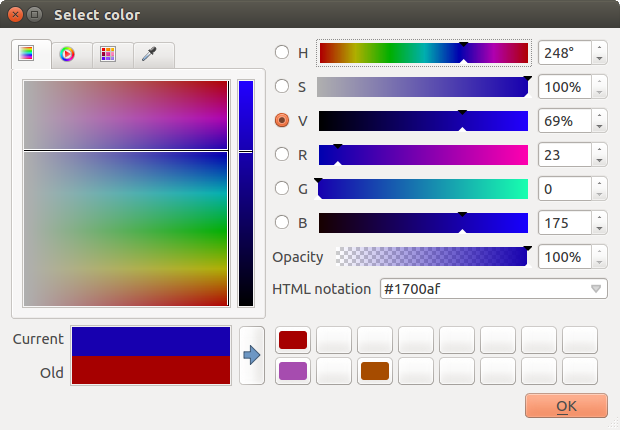
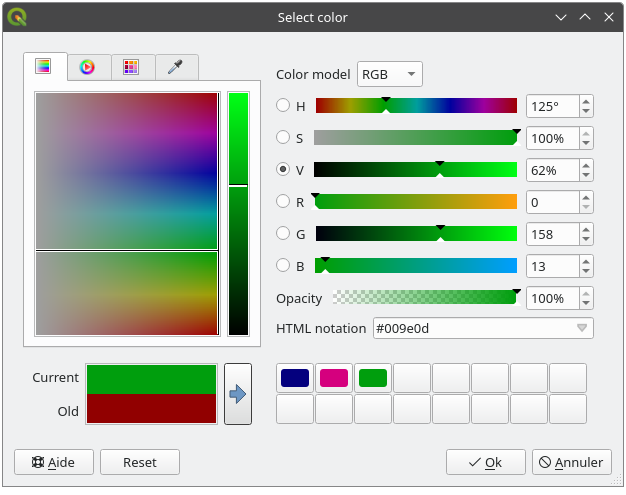
Indicate colors model option and update screenschots accordingly

diff --git a/docs/user_manual/introduction/qgis_configuration.rst b/docs/user_manual/introduction/qgis_configuration.rst
@@ -1872,10 +1872,8 @@ In the :guilabel:`Symbol options` group, you can:
   fill colors, hence avoiding same rendering for all layers.
 
 .. _style_database:
-.. _project_colors:
 
 Style Database
-Project Colors
 ..............
 
 A style database in QGIS is a structured repository designed to store symbols,
@@ -1898,6 +1896,26 @@ In the :guilabel:`Style Database` section you can choose to
 style database or you can |newPage| :guilabel:`Create new style database`.
 When you add or remove a style database in this section, the changes will
 be automatically reflected in the |symbology| :guilabel:`Symbology Properties`.
+
+
+.. _project_colors:
+
+Colors properties
+-----------------
+
+.. _figure_project_colors:
+
+.. figure:: img/project_colors.png
+   :align: center
+
+   Colors tab
+
+In the |colorSwatches| :guilabel:`Colors` tab, you can select the  :guilabel:`Color model`,
+i.e. whether selecting a color should by default be defined as ``RGB`` or ``CMYK``.
+Any color defined in a different color model than the one specified here
+will be converted to this color model when exporting a layout.
+
+
 There is also an additional section where you can define specific colors for the
 running project. Like the :ref:`global colors <colors_options>`, you can:
 
@@ -2689,6 +2707,8 @@ in the QGIS user profile.
 .. |checkbox| image:: /static/common/checkbox.png
    :width: 1.3em
 .. |codeEditor| image:: /static/common/mIconCodeEditor.png
+   :width: 1.5em
+.. |colorSwatches| image:: /static/common/mIconColorSwatches.png
    :width: 1.5em
 .. |crs| image:: /static/common/CRS.png
    :width: 1.5em

diff --git a/docs/user_manual/introduction/general_tools.rst b/docs/user_manual/introduction/general_tools.rst
@@ -1710,9 +1710,13 @@ from another application: press the space bar while the tab is active, move the
 mouse over the desired color and click on it or press the space bar again. You
 can also click the :guilabel:`Sample Color` button to activate the picker.
 
-Whatever method you use, the selected color is always described through color
-sliders for ``HSV`` (Hue, Saturation, Value) and ``RGB`` (Red, Green, Blue)
-values. The color is also identifiable in :guilabel:`HTML notation`.
+Whatever method you use, the selected color is always described
+through options of a :guilabel:`Color model`
+that defaults to the :ref:`project color model <project_colors>`:
+
+* :guilabel:`RGB`: color is set using sliders for ``HSV`` (Hue, Saturation, Value)
+  or ``RGB`` (Red, Green, Blue) values.
+* :guilabel:`CMYK` (Cyan, Magenta, Yellow, Black)
 
 Modifying a color is as simple as clicking on the color wheel or ramp or on any
 of the color parameters sliders. You can adjust such parameters with the spinbox
